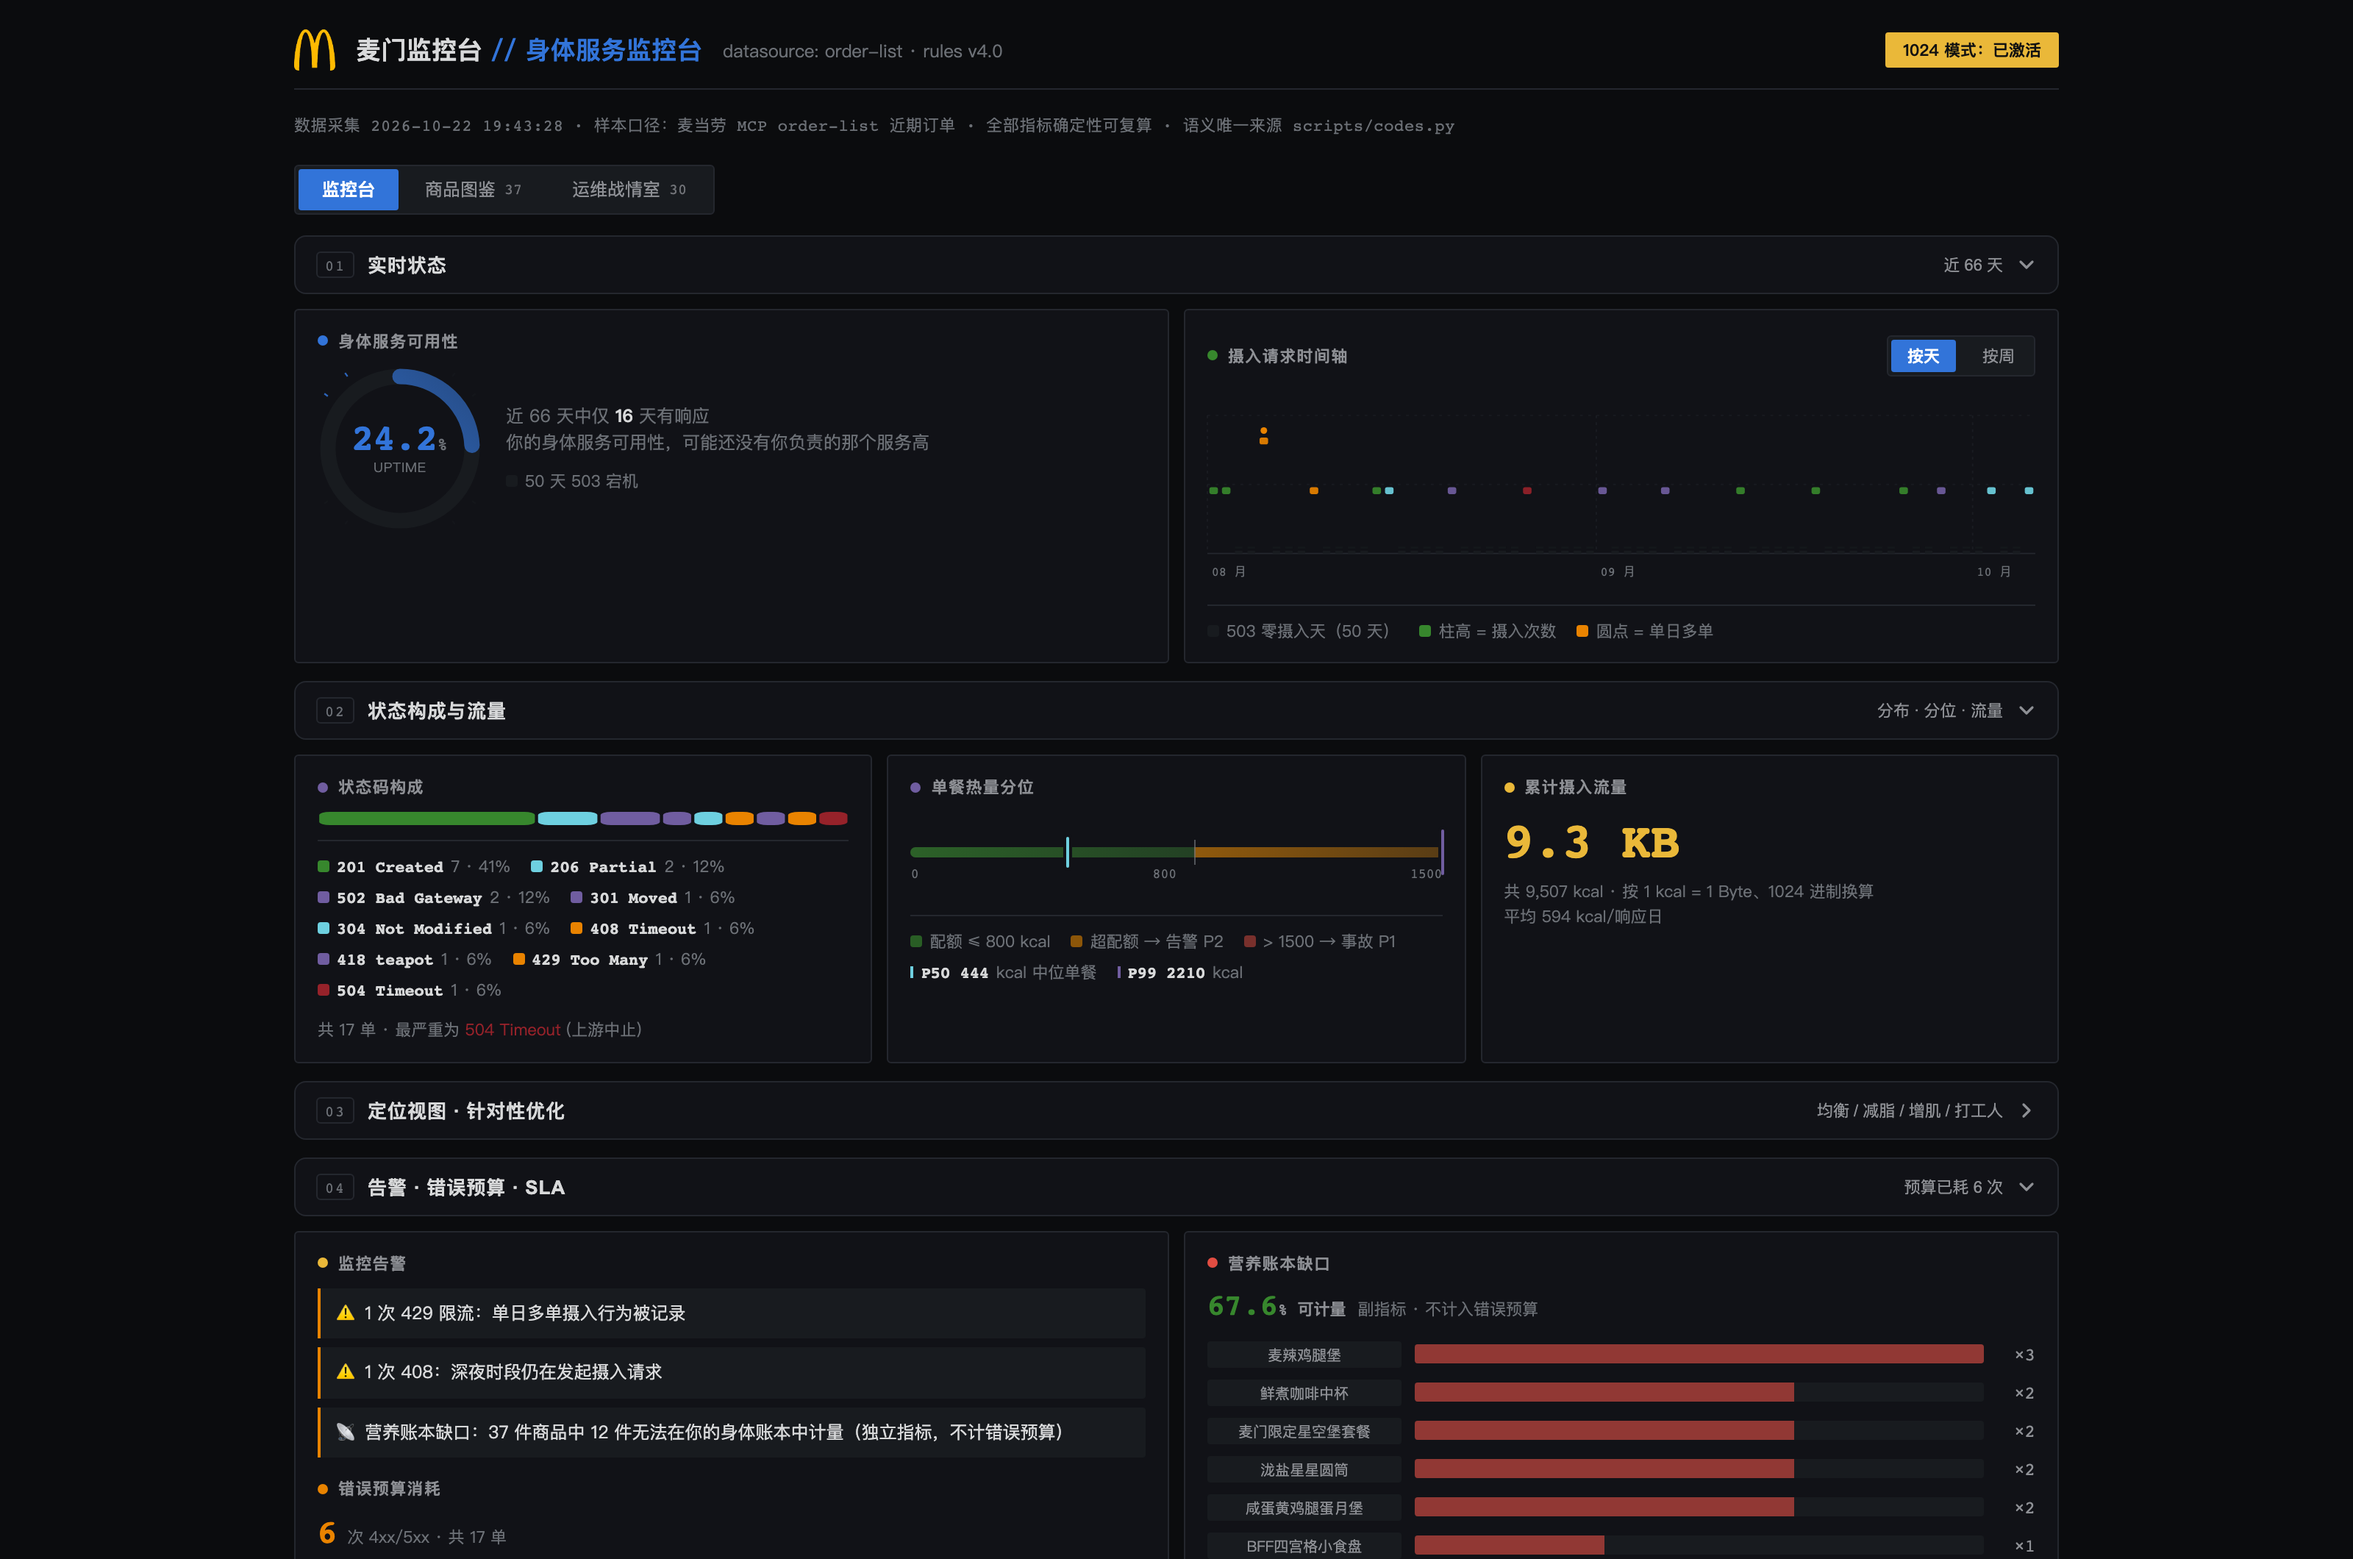
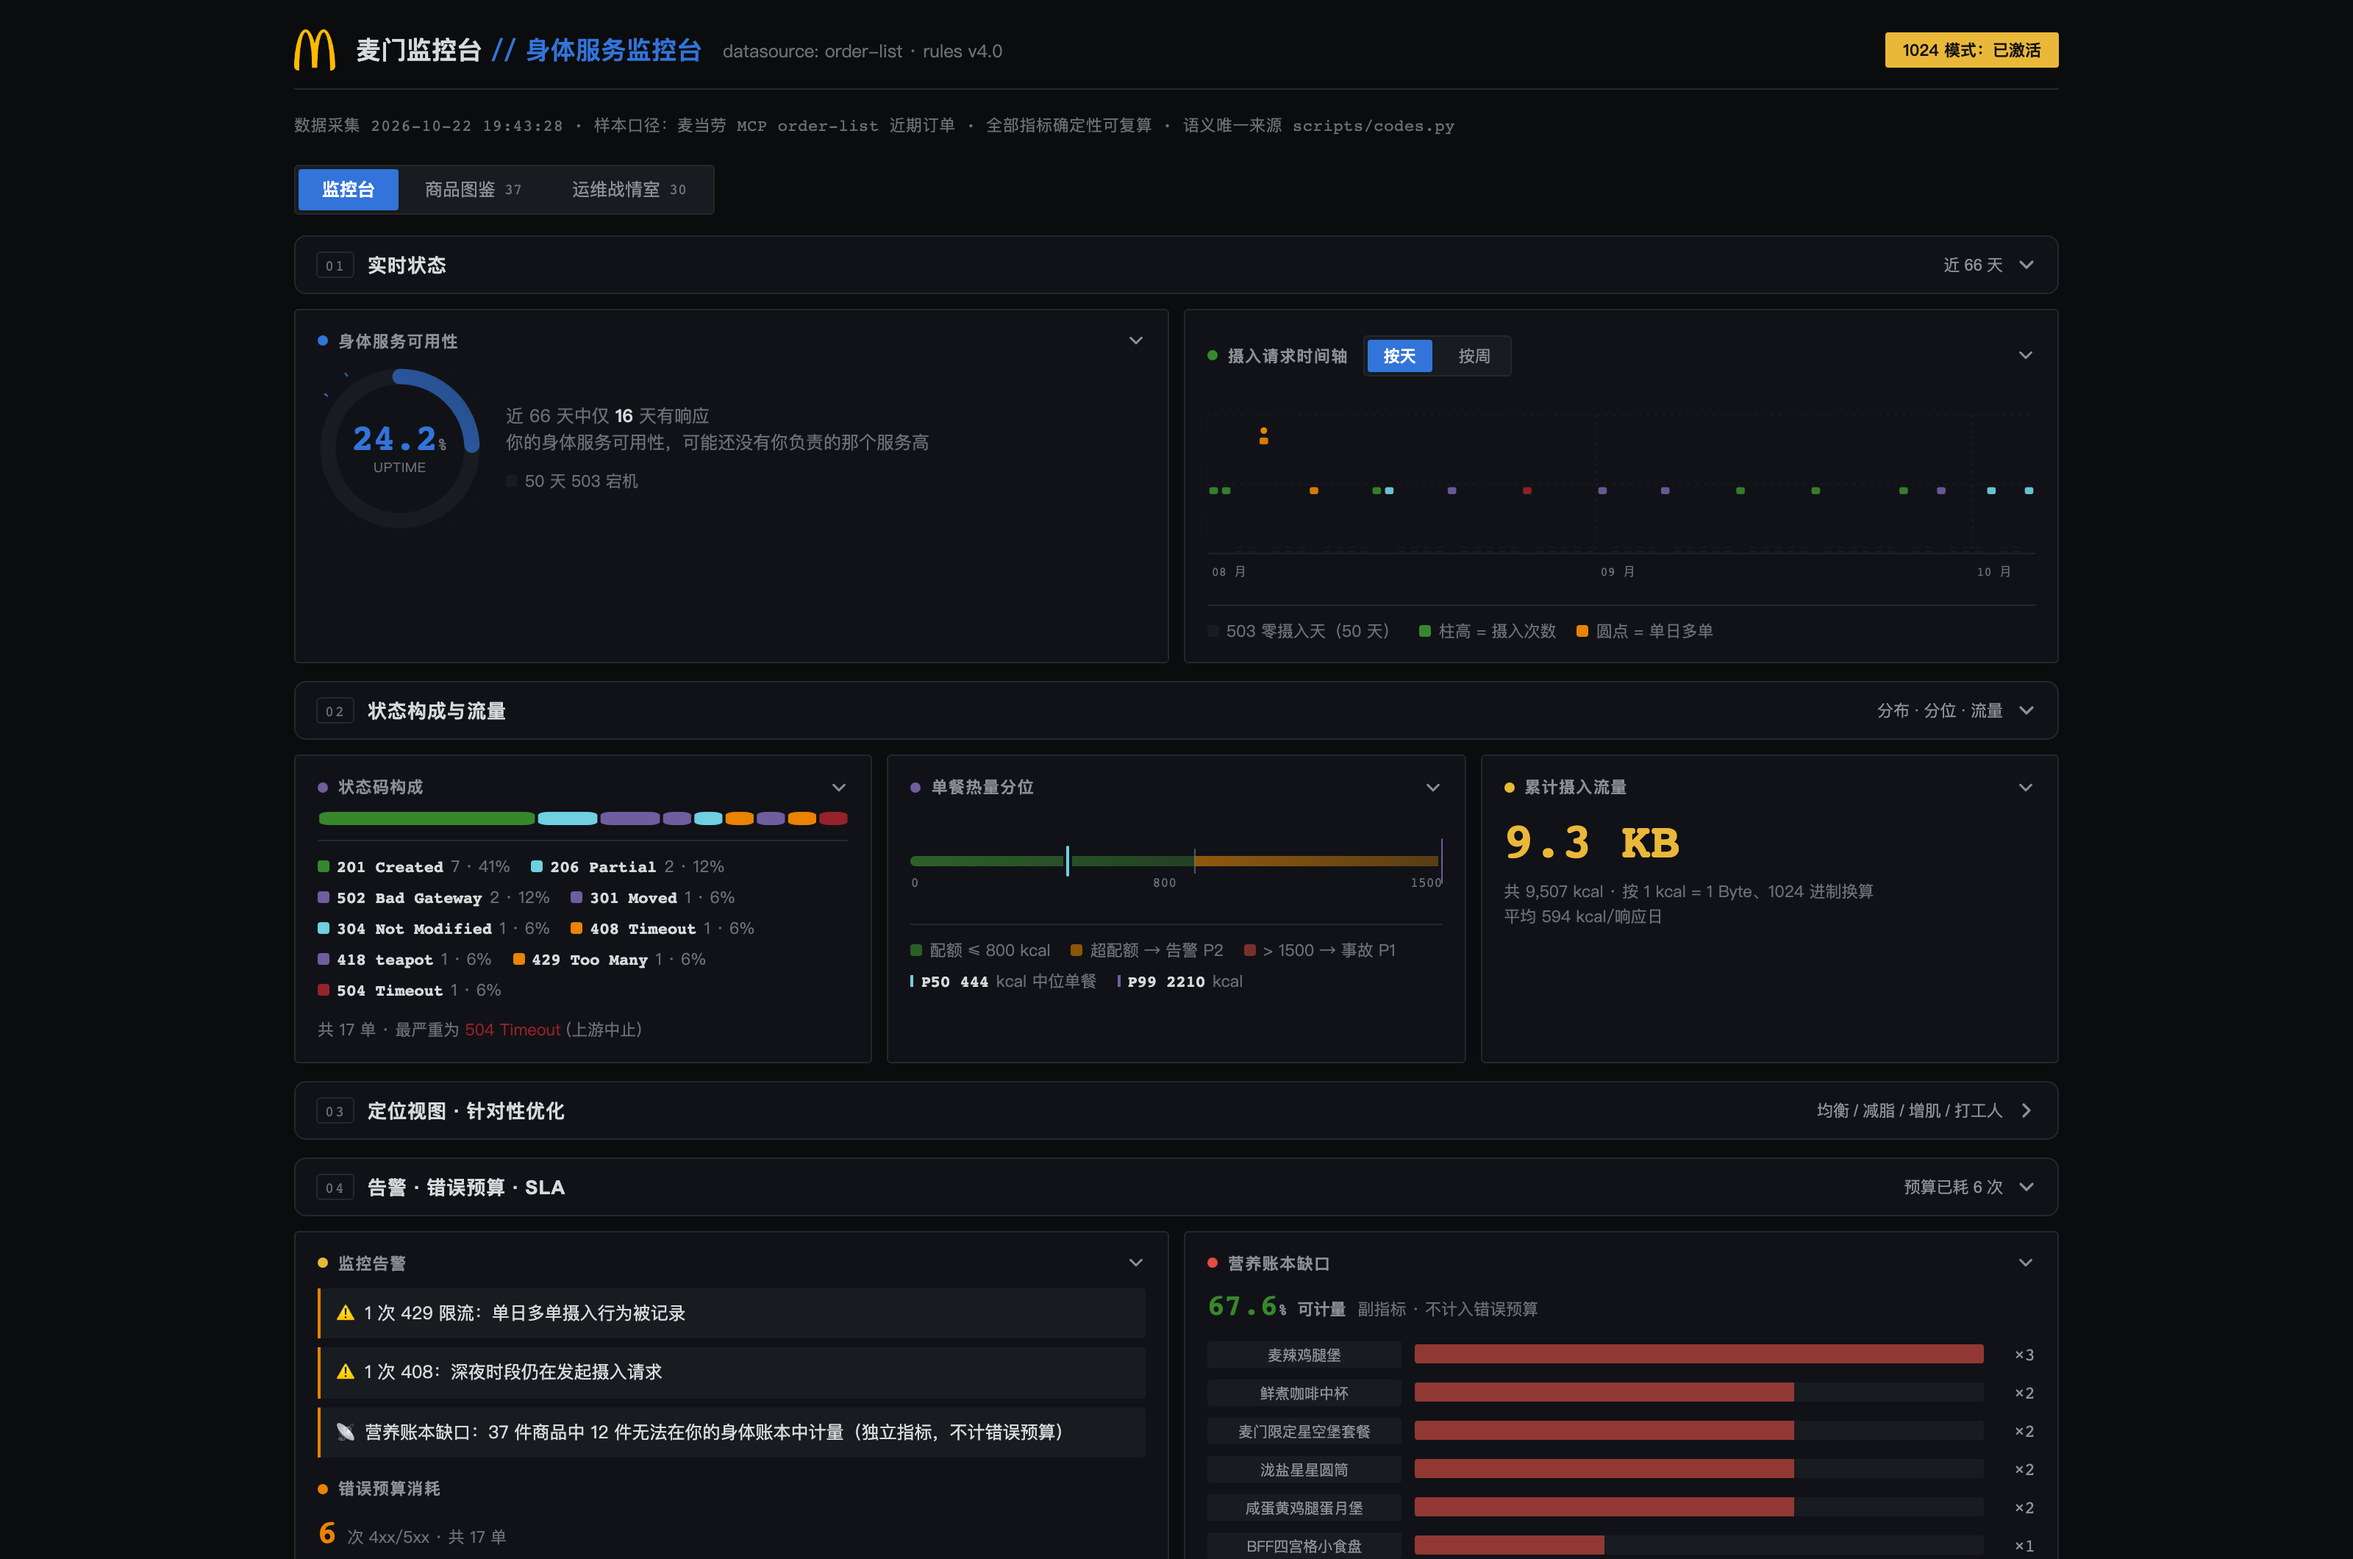
fix(ui): 异常块统一规格 + 面板级折叠
- 探活/徽标码牌固定 18px 胶囊、顶对齐：此前 flex stretch 随文字换行被拉成大色块
- 面板级折叠：draw() 后 initPanels 装配所有顶层面板——组头可点击收起
  （组内按钮不误触）、chevron、按页面+标题 localStorage 记忆
- 修复 initPanels 引用块级 PAGE 的作用域问题（改 location.hash）
- 截图同步刷新

diff --git a/docs/dashboard.html b/docs/dashboard.html
@@ -294,6 +294,22 @@
   .panel:hover{border-color:var(--cyan);box-shadow:0 2px 14px rgba(0,0,0,.35)}
 }
 .panel,.gal-card{transition:border-color .18s ease,box-shadow .18s ease}
+/* 异常块统一规格：码牌/徽标固定 18px 胶囊、顶对齐，不再随文字行高被拉伸 */
+.evo-item{align-items:flex-start}
+.evo-item .pn,.evo-item .st-chip,.probe-item .pn{flex:none;align-self:flex-start;
+  display:inline-flex;align-items:center;height:18px;padding:0 7px;
+  border-radius:3px;font-size:10px;line-height:1;white-space:nowrap}
+/* 面板级折叠：每个顶层 panel 的组头可点击收起，grid-rows 折叠 */
+.panel-h.pclick{cursor:pointer}
+.panel-h.pclick:hover h3{color:var(--cyan)}
+.pnl-chev{margin-left:auto;color:var(--muted);flex:none;
+  transition:transform .3s cubic-bezier(.22,.7,.3,1)}
+.pnl-closed .pnl-chev{transform:rotate(-90deg)}
+.pnl-closed .panel-h{opacity:.72}
+.panel-body{display:grid;grid-template-rows:1fr;
+  transition:grid-template-rows .3s cubic-bezier(.22,.7,.3,1)}
+.pnl-closed .panel-body{grid-template-rows:0fr}
+.panel-inner{overflow:hidden;min-height:0}
 .gal-card{animation:secIn .4s cubic-bezier(.22,.7,.3,1) both;
   animation-delay:calc(var(--i,0)*28ms)}
 @media(prefers-reduced-motion:reduce){
@@ -412,7 +428,46 @@ function secOpen(id, num, title, meta, open, i) {
     <div class="sec-body" id="secbody-${id}"><div class="sec-inner">`;
 }
 function secClose() { return `</div></div></section>`; }
+/* 面板级折叠：draw() 之后对每个顶层 .panel 做一次装配 ——
+   组头变可点击（组内按钮除外），子元素包进 panel-inner 供 grid-rows 动画，
+   收起状态按「页面+标题」写入 localStorage，跨刷新记忆。 */
+function initPanels() {
+  const app = document.getElementById('app');
+  if (!app) return;
+  app.querySelectorAll('.panel').forEach(p => {
+    if (p.dataset.pc) return;
+    const h = p.querySelector(':scope > .panel-h');
+    if (!h) return;
+    p.dataset.pc = '1';
+    const body = document.createElement('div');
+    body.className = 'panel-body';
+    const inner = document.createElement('div');
+    inner.className = 'panel-inner';
+    while (h.nextSibling) inner.appendChild(h.nextSibling);
+    body.appendChild(inner);
+    p.appendChild(body);
+    h.insertAdjacentHTML('beforeend',
+      '<svg class="pnl-chev" width="13" height="13" viewBox="0 0 14 14" aria-hidden="true"><path d="M3 5l4 4 4-4" fill="none" stroke="currentColor" stroke-width="1.6" stroke-linecap="round" stroke-linejoin="round"/></svg>');
+    h.classList.add('pclick');
+    const title = (h.querySelector('h3') || h).textContent.trim().slice(0, 40);
+    const pg = (location.hash || '').replace('#', '') || 'overview';
+    const key = 'mcd.pnl.' + pg + '|' + title;
+    let closed = false;
+    try { closed = localStorage.getItem(key) === '0'; } catch (e) {}
+    if (closed) p.classList.add('pnl-closed');
+    h.setAttribute('aria-expanded', String(!closed));
+    h.dataset.pnlkey = key;
+  });
+}
 document.addEventListener('click', e => {
+  const ph = e.target.closest('.panel-h.pclick');
+  if (ph && !e.target.closest('button, a, .seg, .chip-btn, [data-dim], [data-pagebtn]')) {
+    const p = ph.closest('.panel');
+    const closed = p.classList.toggle('pnl-closed');
+    ph.setAttribute('aria-expanded', String(!closed));
+    try { localStorage.setItem(ph.dataset.pnlkey, closed ? '0' : '1'); } catch (err) {}
+    return;
+  }
   const h = e.target.closest('.sec-h');
   if (!h) return;
   const s = h.closest('.sec');
@@ -1316,6 +1371,7 @@ if (s.collectionStatus === '404') {
     if (PAGE === 'gallery') renderGallery();
     else if (PAGE === 'ops') renderOps();
     else render(CURRENT, LOG_FILTER, LOG_PAGE);
+    initPanels();
   }
 
   function syncFromHash() {

diff --git a/scripts/report.py b/scripts/report.py
@@ -311,6 +311,22 @@ TEMPLATE = """<!DOCTYPE html>
   .panel:hover{border-color:var(--cyan);box-shadow:0 2px 14px rgba(0,0,0,.35)}
 }
 .panel,.gal-card{transition:border-color .18s ease,box-shadow .18s ease}
+/* 异常块统一规格：码牌/徽标固定 18px 胶囊、顶对齐，不再随文字行高被拉伸 */
+.evo-item{align-items:flex-start}
+.evo-item .pn,.evo-item .st-chip,.probe-item .pn{flex:none;align-self:flex-start;
+  display:inline-flex;align-items:center;height:18px;padding:0 7px;
+  border-radius:3px;font-size:10px;line-height:1;white-space:nowrap}
+/* 面板级折叠：每个顶层 panel 的组头可点击收起，grid-rows 折叠 */
+.panel-h.pclick{cursor:pointer}
+.panel-h.pclick:hover h3{color:var(--cyan)}
+.pnl-chev{margin-left:auto;color:var(--muted);flex:none;
+  transition:transform .3s cubic-bezier(.22,.7,.3,1)}
+.pnl-closed .pnl-chev{transform:rotate(-90deg)}
+.pnl-closed .panel-h{opacity:.72}
+.panel-body{display:grid;grid-template-rows:1fr;
+  transition:grid-template-rows .3s cubic-bezier(.22,.7,.3,1)}
+.pnl-closed .panel-body{grid-template-rows:0fr}
+.panel-inner{overflow:hidden;min-height:0}
 .gal-card{animation:secIn .4s cubic-bezier(.22,.7,.3,1) both;
   animation-delay:calc(var(--i,0)*28ms)}
 @media(prefers-reduced-motion:reduce){
@@ -429,7 +445,46 @@ function secOpen(id, num, title, meta, open, i) {{
     <div class="sec-body" id="secbody-${{id}}"><div class="sec-inner">`;
 }}
 function secClose() {{ return `</div></div></section>`; }}
+/* 面板级折叠：draw() 之后对每个顶层 .panel 做一次装配 ——
+   组头变可点击（组内按钮除外），子元素包进 panel-inner 供 grid-rows 动画，
+   收起状态按「页面+标题」写入 localStorage，跨刷新记忆。 */
+function initPanels() {
+  const app = document.getElementById('app');
+  if (!app) return;
+  app.querySelectorAll('.panel').forEach(p => {
+    if (p.dataset.pc) return;
+    const h = p.querySelector(':scope > .panel-h');
+    if (!h) return;
+    p.dataset.pc = '1';
+    const body = document.createElement('div');
+    body.className = 'panel-body';
+    const inner = document.createElement('div');
+    inner.className = 'panel-inner';
+    while (h.nextSibling) inner.appendChild(h.nextSibling);
+    body.appendChild(inner);
+    p.appendChild(body);
+    h.insertAdjacentHTML('beforeend',
+      '<svg class="pnl-chev" width="13" height="13" viewBox="0 0 14 14" aria-hidden="true"><path d="M3 5l4 4 4-4" fill="none" stroke="currentColor" stroke-width="1.6" stroke-linecap="round" stroke-linejoin="round"/></svg>');
+    h.classList.add('pclick');
+    const title = (h.querySelector('h3') || h).textContent.trim().slice(0, 40);
+    const pg = (location.hash || '').replace('#', '') || 'overview';
+    const key = 'mcd.pnl.' + pg + '|' + title;
+    let closed = false;
+    try { closed = localStorage.getItem(key) === '0'; } catch (e) {}
+    if (closed) p.classList.add('pnl-closed');
+    h.setAttribute('aria-expanded', String(!closed));
+    h.dataset.pnlkey = key;
+  });
+}
 document.addEventListener('click', e => {{
+  const ph = e.target.closest('.panel-h.pclick');
+  if (ph && !e.target.closest('button, a, .seg, .chip-btn, [data-dim], [data-pagebtn]')) {{
+    const p = ph.closest('.panel');
+    const closed = p.classList.toggle('pnl-closed');
+    ph.setAttribute('aria-expanded', String(!closed));
+    try {{ localStorage.setItem(ph.dataset.pnlkey, closed ? '0' : '1'); }} catch (err) {{}}
+    return;
+  }}
   const h = e.target.closest('.sec-h');
   if (!h) return;
   const s = h.closest('.sec');
@@ -1333,6 +1388,7 @@ if (s.collectionStatus === '404') {{
     if (PAGE === 'gallery') renderGallery();
     else if (PAGE === 'ops') renderOps();
     else render(CURRENT, LOG_FILTER, LOG_PAGE);
+    initPanels();
   }}
 
   function syncFromHash() {{
